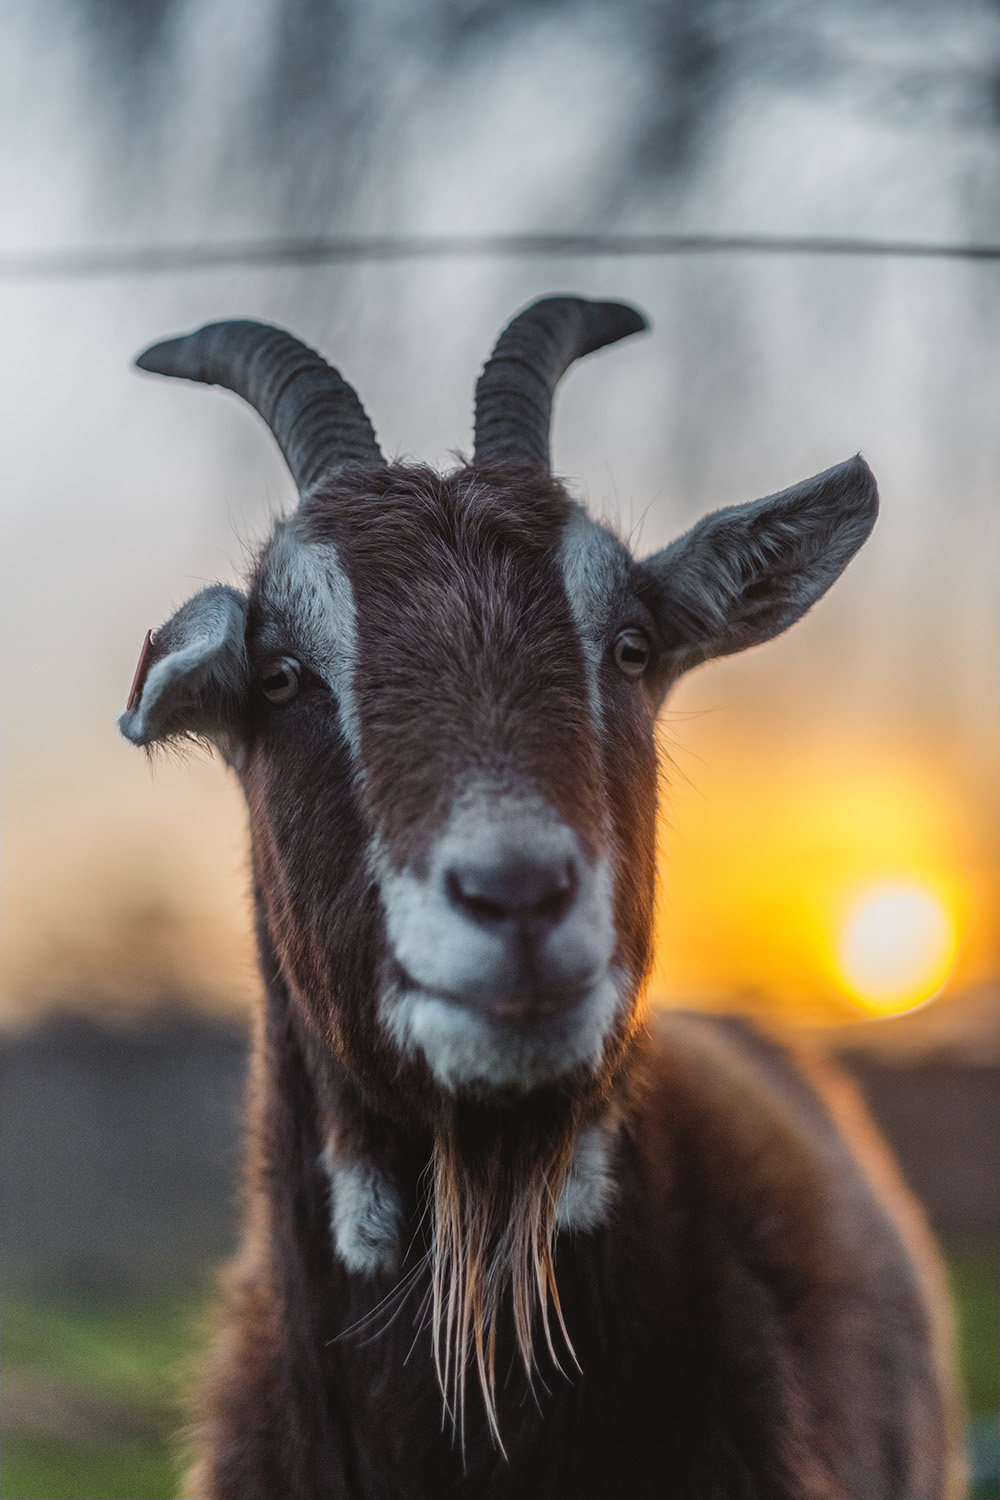
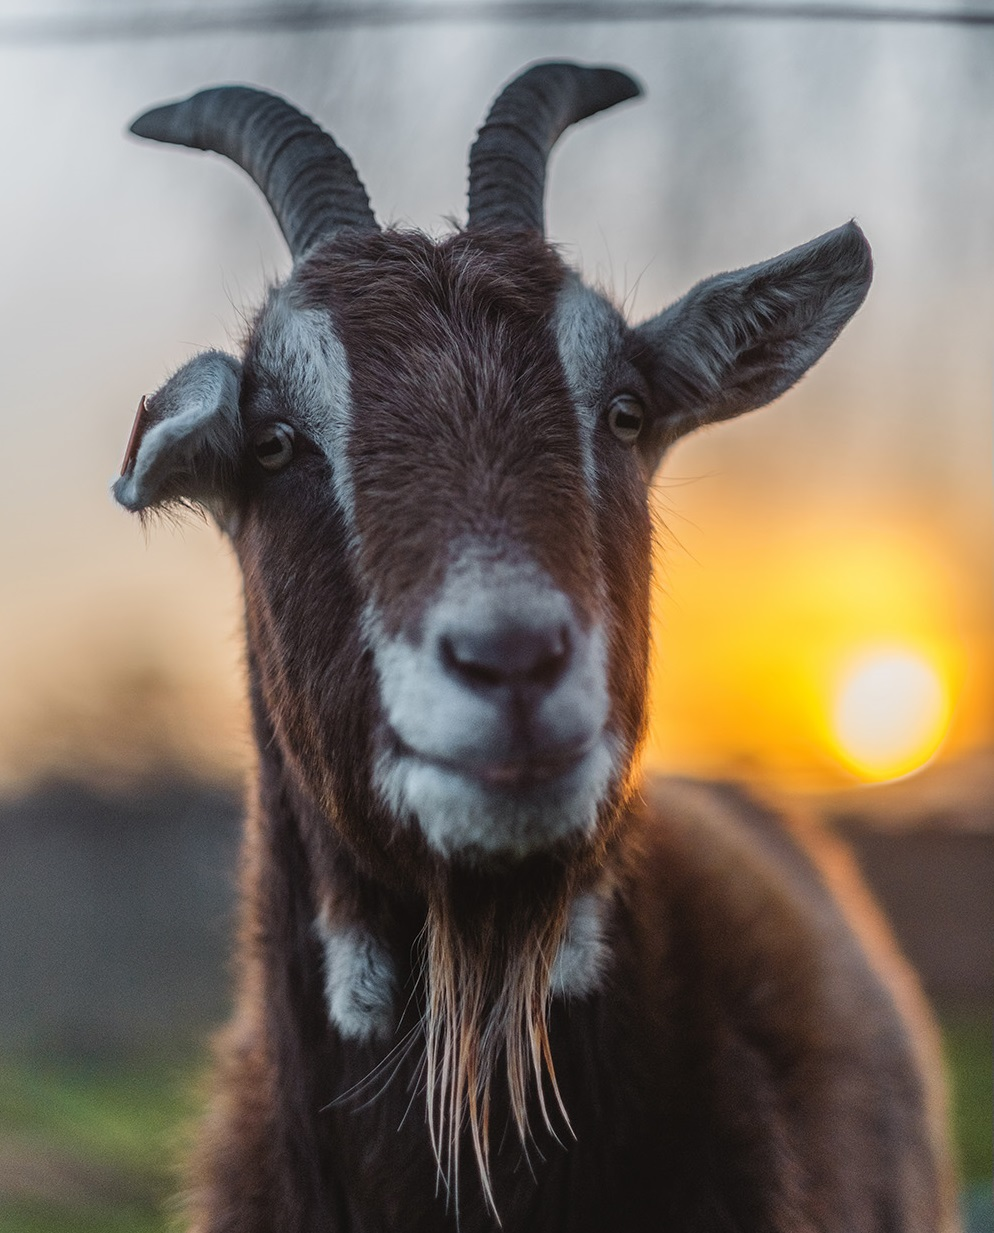
added styling to form and removed JQuery

diff --git a/index.html b/index.html
@@ -38,7 +38,9 @@
         <section class='about' id="about">
             <h2>About</h2>
             <div class="row">
-                <div id='portrait'></div>
+                <div id='portrait'>
+                    <img src="./images/goat.jpg" alt="Selfie">
+                </div>
                 <p class="about-text">
                     Front-end developer with in creating responsive websites from scratch or PSD using HTML5, CSS3 and Javascript. I am also well versed with other web technologies like Bootstrap, SASS/SCSS and Angular 2+.
 
@@ -76,11 +78,12 @@
         <!-- CONTACT -->
         <section class='contact' id="contact">
             <h2>Contact Me</h2>
-            <form action="https://formspree.io/johnny1864@yahoo.com" method="POST">
+            <form method="POST" name="contact" data-netlify="true">
                 <div id='contact-info row'>
-                    <input type="text" name="name" placeholder="Your Name">
-                    <input type="email" name="_replyto" placeholder="Your Email">
+                    <input type="text" name="name" placeholder="Your Name" required>
+                    <input type="email" name="email" placeholder="Your Email" required>
                 </div>
+                <div data-netlify-recaptcha="true"></div>
                 <textarea placeholder="Message" name="message" id="message" cols="30" rows="10"></textarea>
                 <input id='button' type="submit" value="Send">
             </form>
@@ -88,7 +91,7 @@
         <hr>
         <footer>
             <div>
-                Johnny Rivers &copy2018;
+                Johnny Rivers &copy; 2019
             </div>
             <ul class="social-links navbar">
                 <li><a href="https://github.com/johnny1864" target="_blank"><i class='fab fa-github-square'></i></a></li>
@@ -97,7 +100,6 @@
             </ul>
         </footer>
     </main>
-    <script src="https://code.jquery.com/jquery-3.3.1.slim.min.js" integrity="sha256-3edrmyuQ0w65f8gfBsqowzjJe2iM6n0nKciPUp8y+7E=" crossorigin="anonymous"></script>
+    
 </body>
-
 </html>

diff --git a/styles/styles.css b/styles/styles.css
@@ -77,6 +77,10 @@ a:hover {
     box-shadow: 2px 2px 3px #444;
 }
 
+img{
+    width: 100%;
+}
+
 /***************
     NAVIGATION
 ***************/
@@ -153,7 +157,6 @@ nav.scroll-nav {
 }
 
 .home-content {
-    
     animation: 1.2s fadeup 1s forwards;
     opacity: 0;
 }
@@ -197,16 +200,16 @@ nav.scroll-nav {
     margin: 2em;
     min-height: 400px;
     min-width: 300px;
-    border-radius: 50%;
-    background-image: url('../images/placeholder.jpeg');
-    background-size: cover;
-    background-repeat: no-repeat;
-    background-position: center;
     transition-duration: 500ms;
+    overflow: hidden;
 }
 
 #portrait:hover {
-    transform: scale(1.2) rotate(360deg);
+    transform: scale(1.1);
+}
+
+#portrait img{
+    border-radius: 50%;
 }
 
 /************
@@ -236,19 +239,22 @@ nav.scroll-nav {
 *************/
 
 form {
-    max-width: 500px;
+    min-width: 450px;
+    width: 50%;
     margin: 0 auto;
 }
 
 form input,
 form textarea {
     display: block;
-    border: px solid #31b0d5;
+    border: 1px solid #31b0d5;
     width: 100%;
     margin: 1em;
-    border: none;
-    box-shadow: 2px 2px 3px #444
+    padding: 1em;
+    font-size: 1em;
+    border-radius: 20px;
 }
+
 
 form input:focus,
 form textarea:focus {
@@ -256,8 +262,8 @@ form textarea:focus {
 }
 
 #button {
+    padding: 10px;
     width: 150px;
-    height: 50px;
     margin: 0 auto;
     background-color: #31b0d5;
     color: #fff;
@@ -268,6 +274,7 @@ form textarea:focus {
 #button:hover {
     cursor: pointer;
     opacity: 0.9;
+    font-weight: 200;
 }
 
 /************
